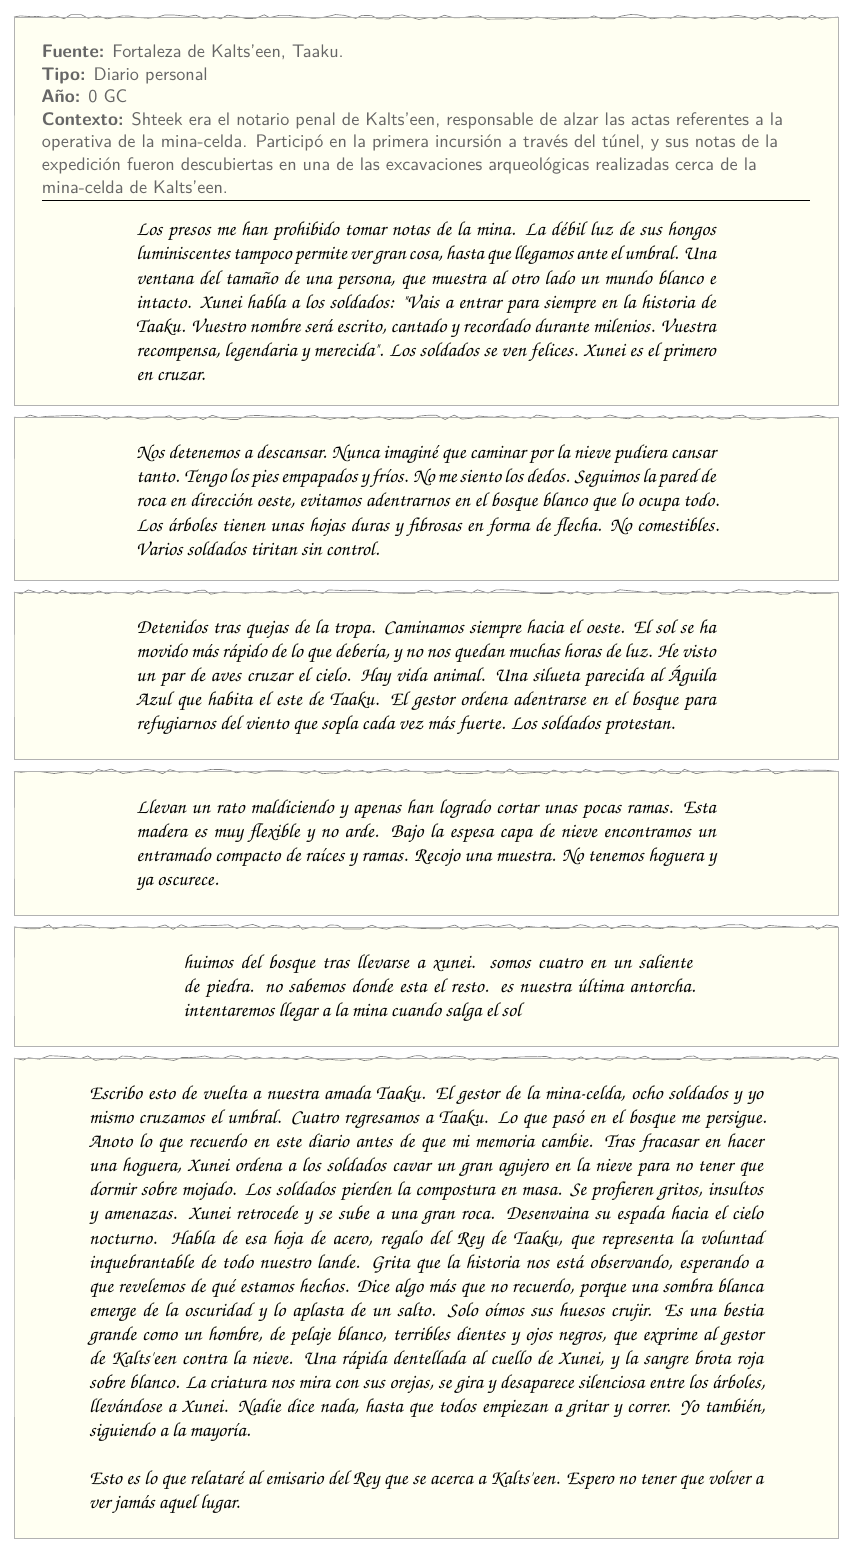
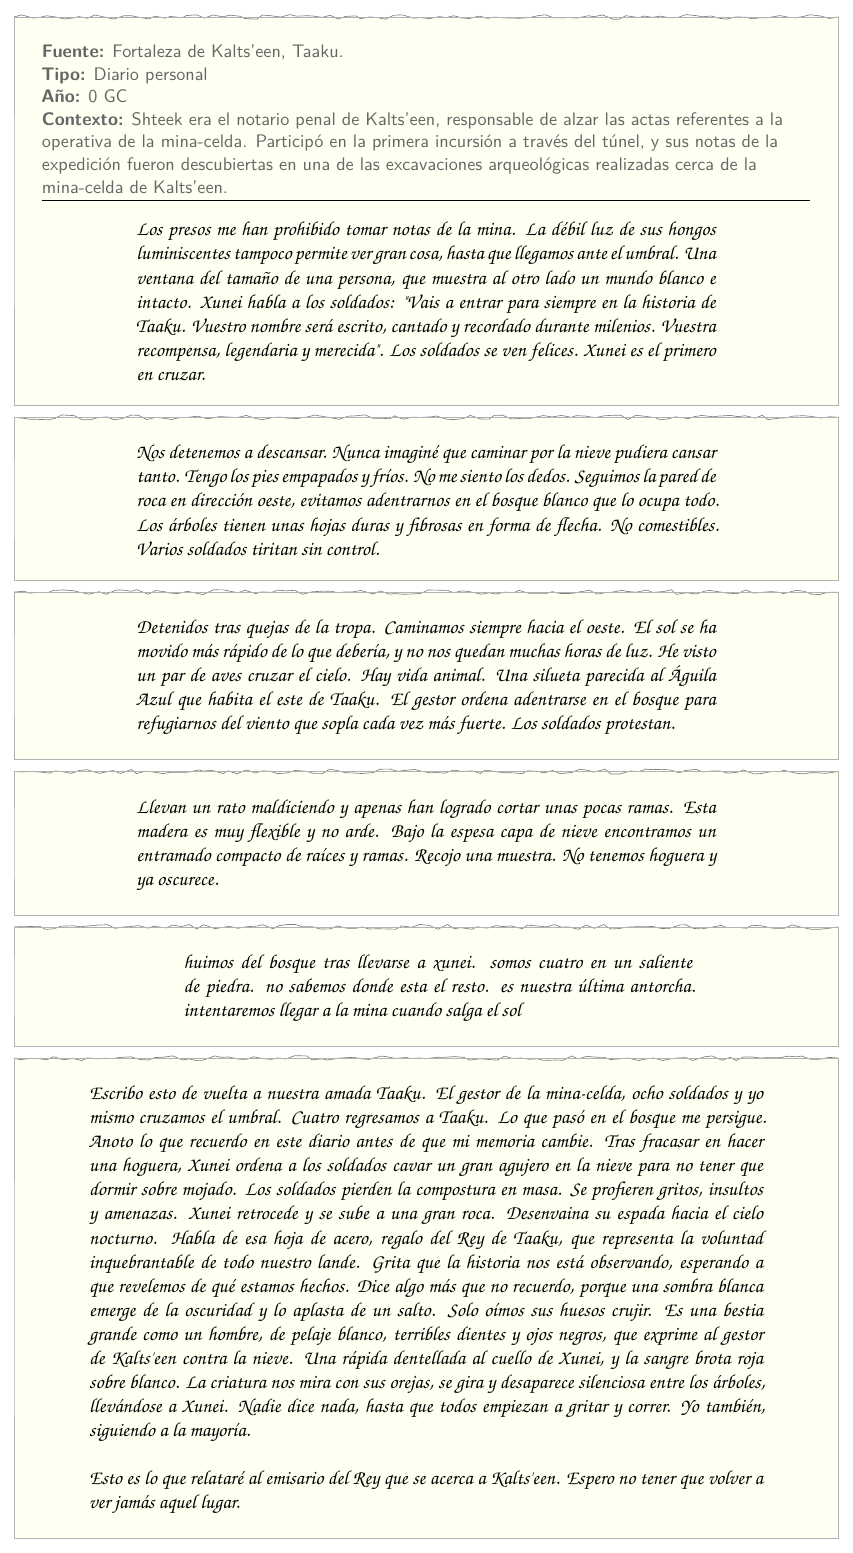
Imágenes de la narrativa como documentos visuales
- importador: figuras del texto → marcadores {{iN}} + copia a imgs/ del
  story dir; frontmatter images: con width (del \includegraphics),
  alt (del \caption) y metadatos provisionales (--img-place/--img-year)
- build: las imágenes entran en documents (kind: image) → panel,
  línea de tiempo, lector y filtros por lugar y año; orden de lectura
  según posición del marcador en el cuerpo; ancho de la fuente original
  en max-width
- explore: caption 'imagen N de M' en el lector; entrada dp-image
- vol11: 6 imágenes importadas (sopa, paso, codo, mapa, pandilubi, moneda)
- importador: --force ya no borra story.pdf (se conserva el afinado)

diff --git a/assets/explore.js b/assets/explore.js
@@ -796,7 +796,8 @@
     var i = list.findIndex(function (x) { return x.id === d.id; });
     dom.readerImg.src = S.u(d.image);
     dom.readerImg.alt = d.alt;
-    dom.readerCaption.innerHTML = 'Parte de <em>' + S.esc(d.storyTitle) + '</em>, documento ' + (i + 1) + ' de ' + list.length;
+    dom.readerCaption.innerHTML = 'Parte de <em>' + S.esc(d.storyTitle) + '</em>, ' +
+      (d.kind === 'image' ? 'imagen ' : 'documento ') + (i + 1) + ' de ' + list.length;
     dom.readerPrev.disabled = i <= 0;
     dom.readerNext.disabled = i >= list.length - 1;
   }
@@ -994,7 +995,7 @@
     var html = '';
     list.forEach(function (d) {
       var span = d.yearEnd != null ? S.fmtSpan(d.year, d.yearEnd) : S.fmtYear(d.year);
-      html += '<li class="dp-entry" data-dp-doc="' + S.esc(d.id) + '">' +
+      html += '<li class="dp-entry' + (d.kind === 'image' ? ' dp-image' : '') + '" data-dp-doc="' + S.esc(d.id) + '">' +
         '<button type="button" data-doc-ref="' + S.esc(d.id) + '" title="' + S.esc(d.label) + '">' +
         '<span class="dp-year">' + S.esc(span) + '</span>' +
         '<span class="dp-label">' + S.esc(d.label) + '</span>' +

diff --git a/assets/site.css b/assets/site.css
@@ -197,6 +197,10 @@ h1, h2, h3 { font-family: var(--font-serif); font-weight: 600; line-height: 1.25
 .doc figcaption { padding: 8px 4px 0; font-size: 13px; color: var(--text-dim); display: flex; justify-content: space-between; gap: 8px; flex-wrap: wrap; }
 .doc-label { font-weight: 600; color: var(--text); }
 .doc-meta { color: var(--accent); }
+/* imágenes de la narrativa: centradas y con el ancho de la fuente original */
+.story-body .doc.image, .story-sheet-body .doc.image { margin: 34px auto; }
+/* entradas de imagen en el panel de documentos */
+.dp-entry.dp-image > button { border-left-color: var(--accent); }
 
 .locked-notice {
   border: 1px solid var(--line);

diff --git a/docs/anadir-historias.md b/docs/anadir-historias.md
@@ -71,6 +71,8 @@ Banderas útiles:
 | `--publish 2026-11-01`  | Fecha de publicación                                          |
 | `--no-render`           | Solo `story.md` + marcadores SVG (rápido, para iterar texto)  |
 | `--pdf mi.pdf`          | Usar un PDF ya compilado en vez de compilar                   |
+| `--img-place lande-14`  | Lugar provisional de las imágenes de la narrativa             |
+| `--img-year 480`        | Año provisional de las imágenes (por defecto, el del doc 1)   |
 
 Notas: `--sequence` debe ser el siguiente entero libre (único, sin huecos).
 Fuentes Type1 `.pfb` (p. ej. URW Gothic) se sustituyen por su clon OpenType
@@ -212,6 +214,34 @@ en el original. El importador deja un marcador `{{dN}}` en el cuerpo de
 figura del documento. Al escribir `story.md` a mano, coloca los marcadores
 donde toque; un documento sin marcador cae en la lista «Documentos» al
 final de la página.
+
+### 3.4bis Imágenes de la narrativa
+
+Las figuras (`\begin{figure}`, `wrapfigure`, `\includegraphics` suelto) del
+texto también viajan a la web: el importador deja un marcador `{{iN}}` en su
+sitio, copia el archivo a `content/stories/<id>/imgs/` y escribe un bloque
+`images:` en `story.md`:
+
+```yaml
+images:
+  - file: imgs/moneda.jpeg     # dentro del directorio de la historia
+    alt: Oblato de Taaku del siglo 3.   # sale de \caption si lo hay
+    width: 55                  # % del ancho de columna (del \includegraphics)
+    places:                    # metadatos: edita aquí lugar y año
+      - lande-14
+    year: 480
+```
+
+Las imágenes son documentos visuales de pleno derecho: aparecen en el texto
+en su posición, en el panel de documentos, en la línea de tiempo y en el
+lector, y se filtran por lugar y año como cualquier documento. El importador
+les pone un `places`/`year` provisional (`--img-place`, `--img-year`); la
+decisión fina se hace editando `story.md` a mano y recompilando con
+`node build.mjs`.
+
+Los archivos fuente se buscan en `input/imgs/` (y `input/map_files/` para
+mapas): el importador resuelve las rutas `../../_Sources/...` del original.
+Guarda allí solo las imágenes usadas en la historia.
 
 ### 3.5 Renderiza la imagen de cada documento
 
